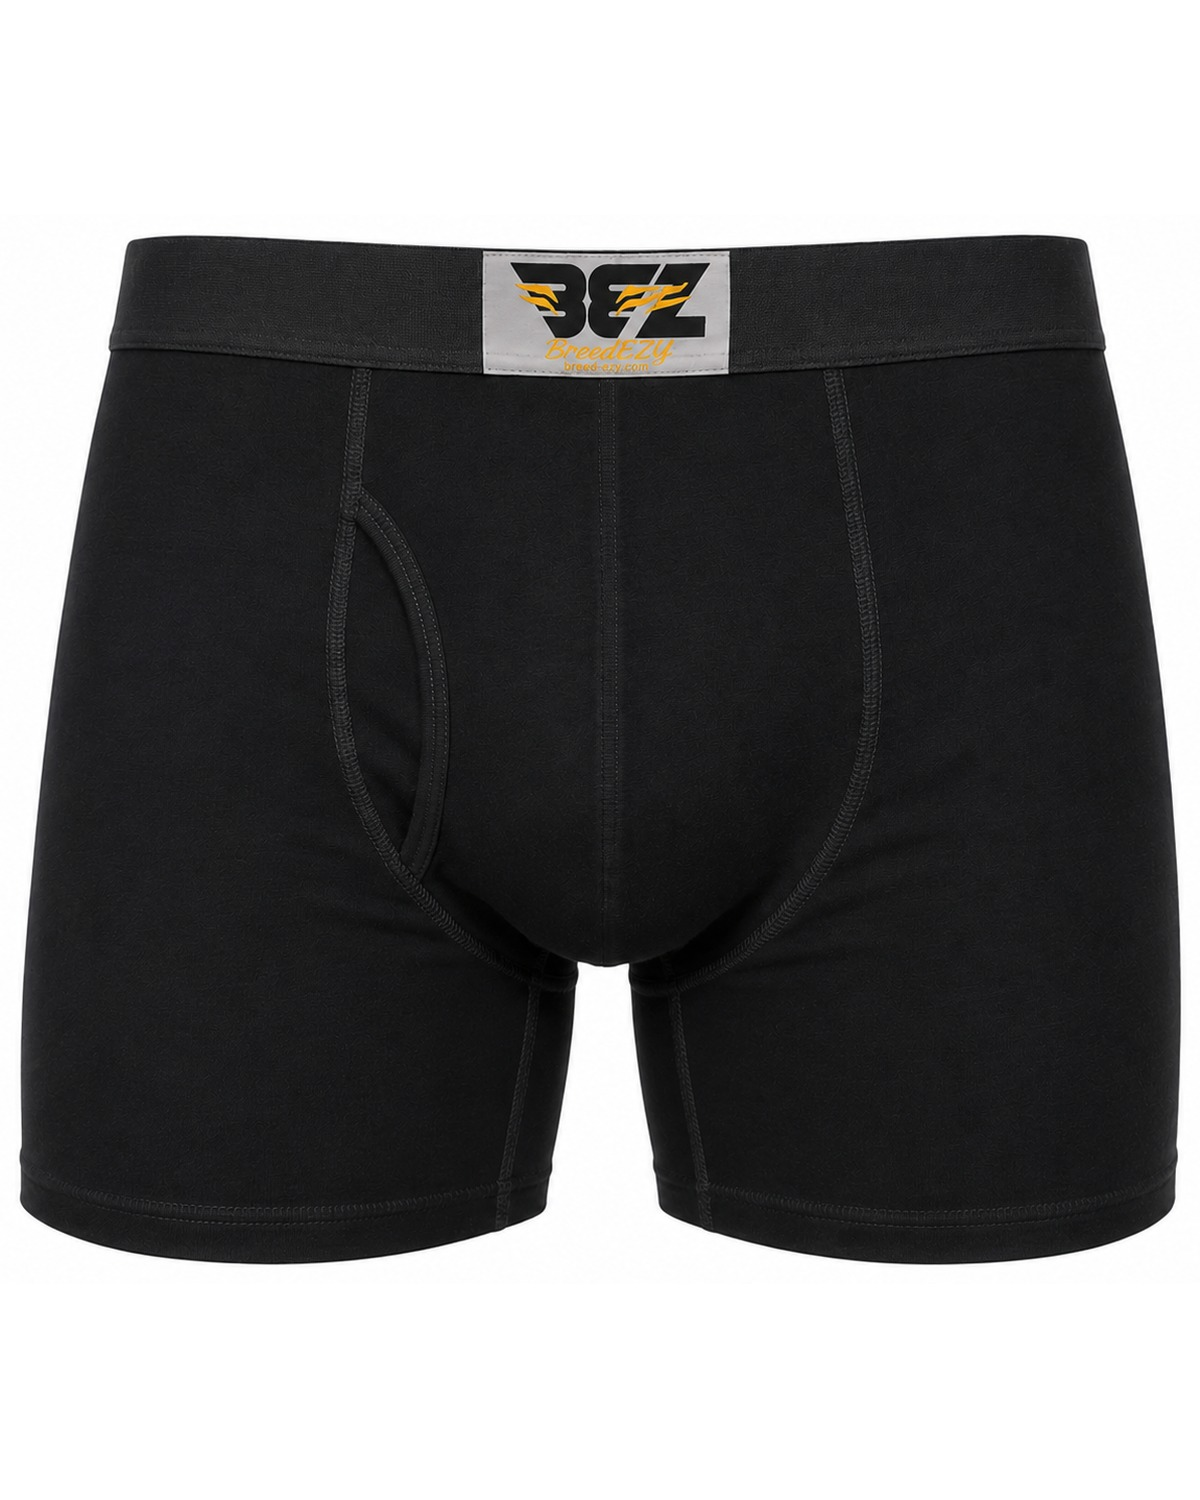
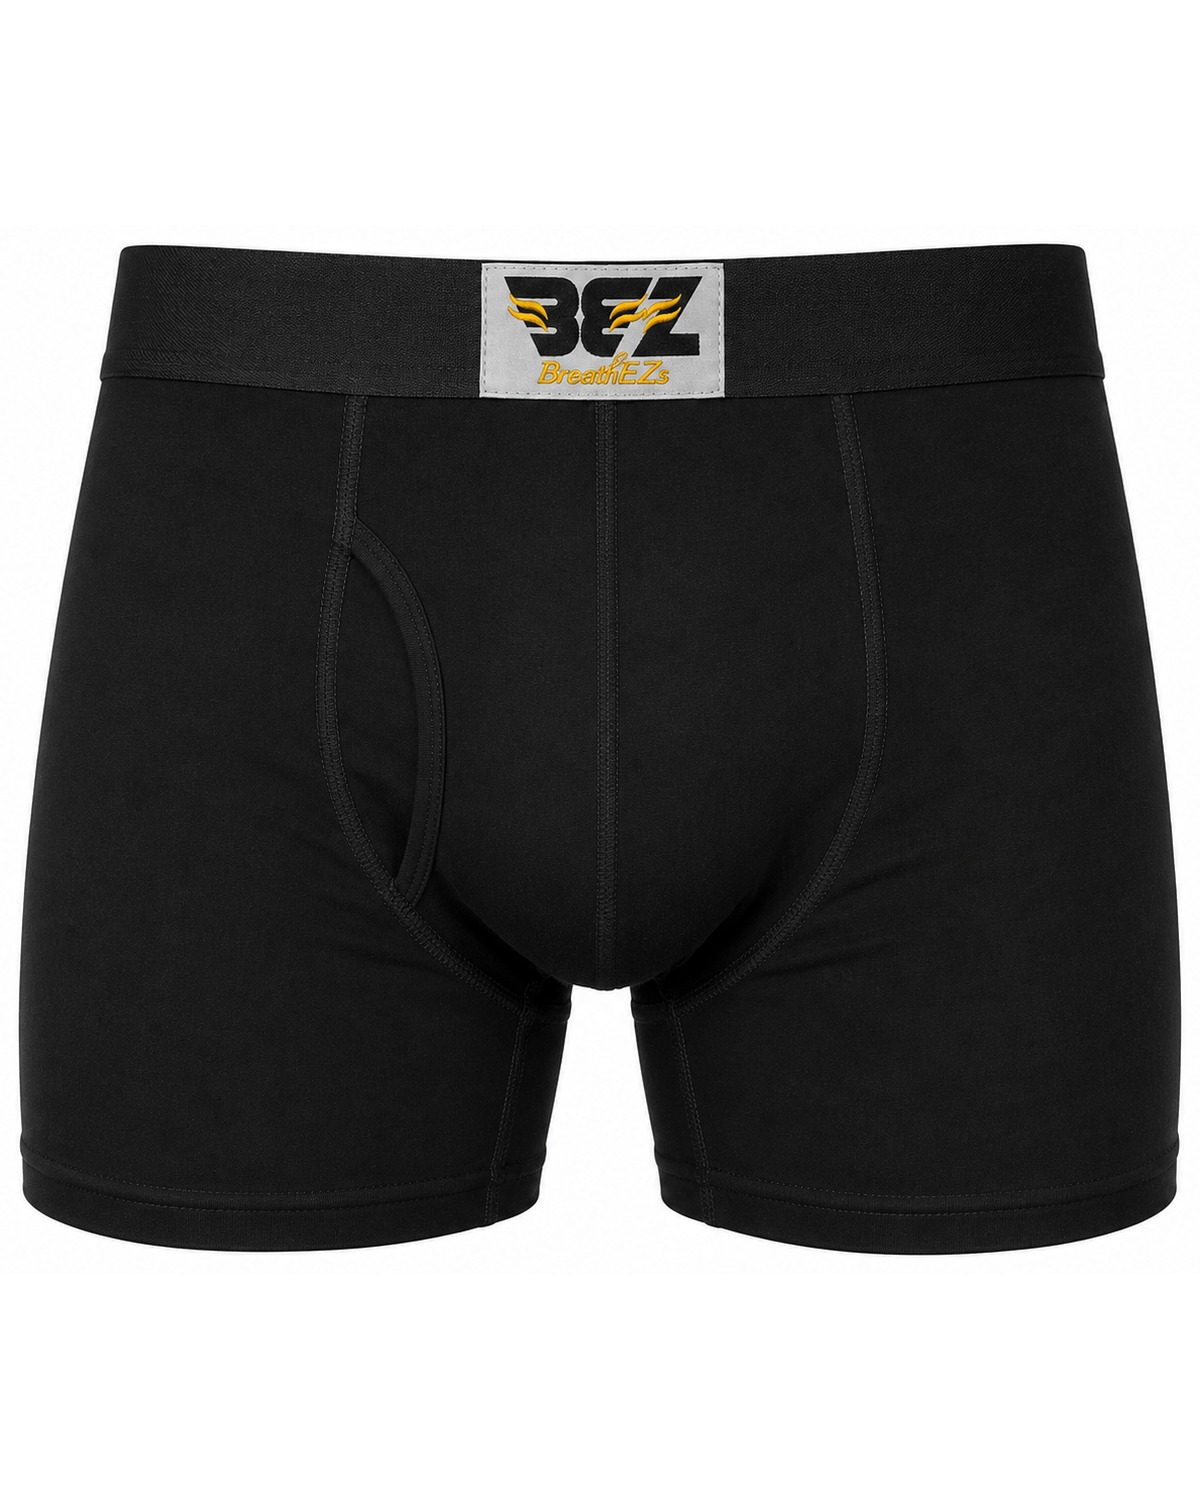
Gold tagline, hero shop button scrolls to collection, corrected black label
- Fix No Heat For Your Meat tagline so it renders gold: the generic
  .night p color rule was overriding .tagline; add a specific gold
  gradient rule for .night .tagline.
- Point the hero Shop the Collection button at the #collection section
  (Three Ways to Stay Cool) instead of the placeholder external store.
- Swap in the reexported Classic Black front photo with the correct
  BEZ / BreathEZs waistband label.

Claude-Session: https://claude.ai/code/session_01A2DdCsVA4Qx1DSWeaC92nh

diff --git a/index.html b/index.html
@@ -185,6 +185,7 @@ h2.title .accent{color:var(--purple)}
 .night h2 .accent{color:var(--purple-neon)}
 .night p{color:rgba(255,255,255,.78);margin:22px 0 30px;max-width:30rem;font-size:1.08rem}
 .tagline{font-size:1.5rem;font-weight:900;font-style:italic;text-transform:uppercase;color:var(--gold-light);letter-spacing:.02em;margin:6px 0 30px}
+.night .tagline{background:linear-gradient(92deg,#f6d987,#e8c95c 35%,#c9a227 70%,#f2d377);-webkit-background-clip:text;background-clip:text;-webkit-text-fill-color:transparent;color:transparent;filter:drop-shadow(0 0 14px rgba(201,162,39,.35))}
 .vid-wrap{max-width:480px;justify-self:center;position:relative}
 .vid-wrap video{width:100%;display:block}
 .vid-cap{position:absolute;top:15px;left:0;right:0;text-align:center;line-height:1.4;pointer-events:none;z-index:2}
@@ -299,7 +300,7 @@ footer{background:linear-gradient(180deg,#20182e,#140d1f);color:rgba(255,255,255
       <h1>Luxury Underwear.<br><span class="accent">Designed to Breathe.</span></h1>
       <p class="lead">Premium 100% cotton comfort engineered for confidence, movement, and all day wear. An open airflow design keeps you cool exactly where it counts.</p>
       <div class="hero-ctas">
-        <a href="https://breathezs.myshopify.com" target="_blank" rel="noopener" class="btn btn-primary store-link">Shop the Collection</a>
+        <a href="#collection" class="btn btn-primary">Shop the Collection</a>
         <a href="#waitlist" class="btn btn-outline">Join Waitlist</a>
       </div>
       <div class="hero-badges">
